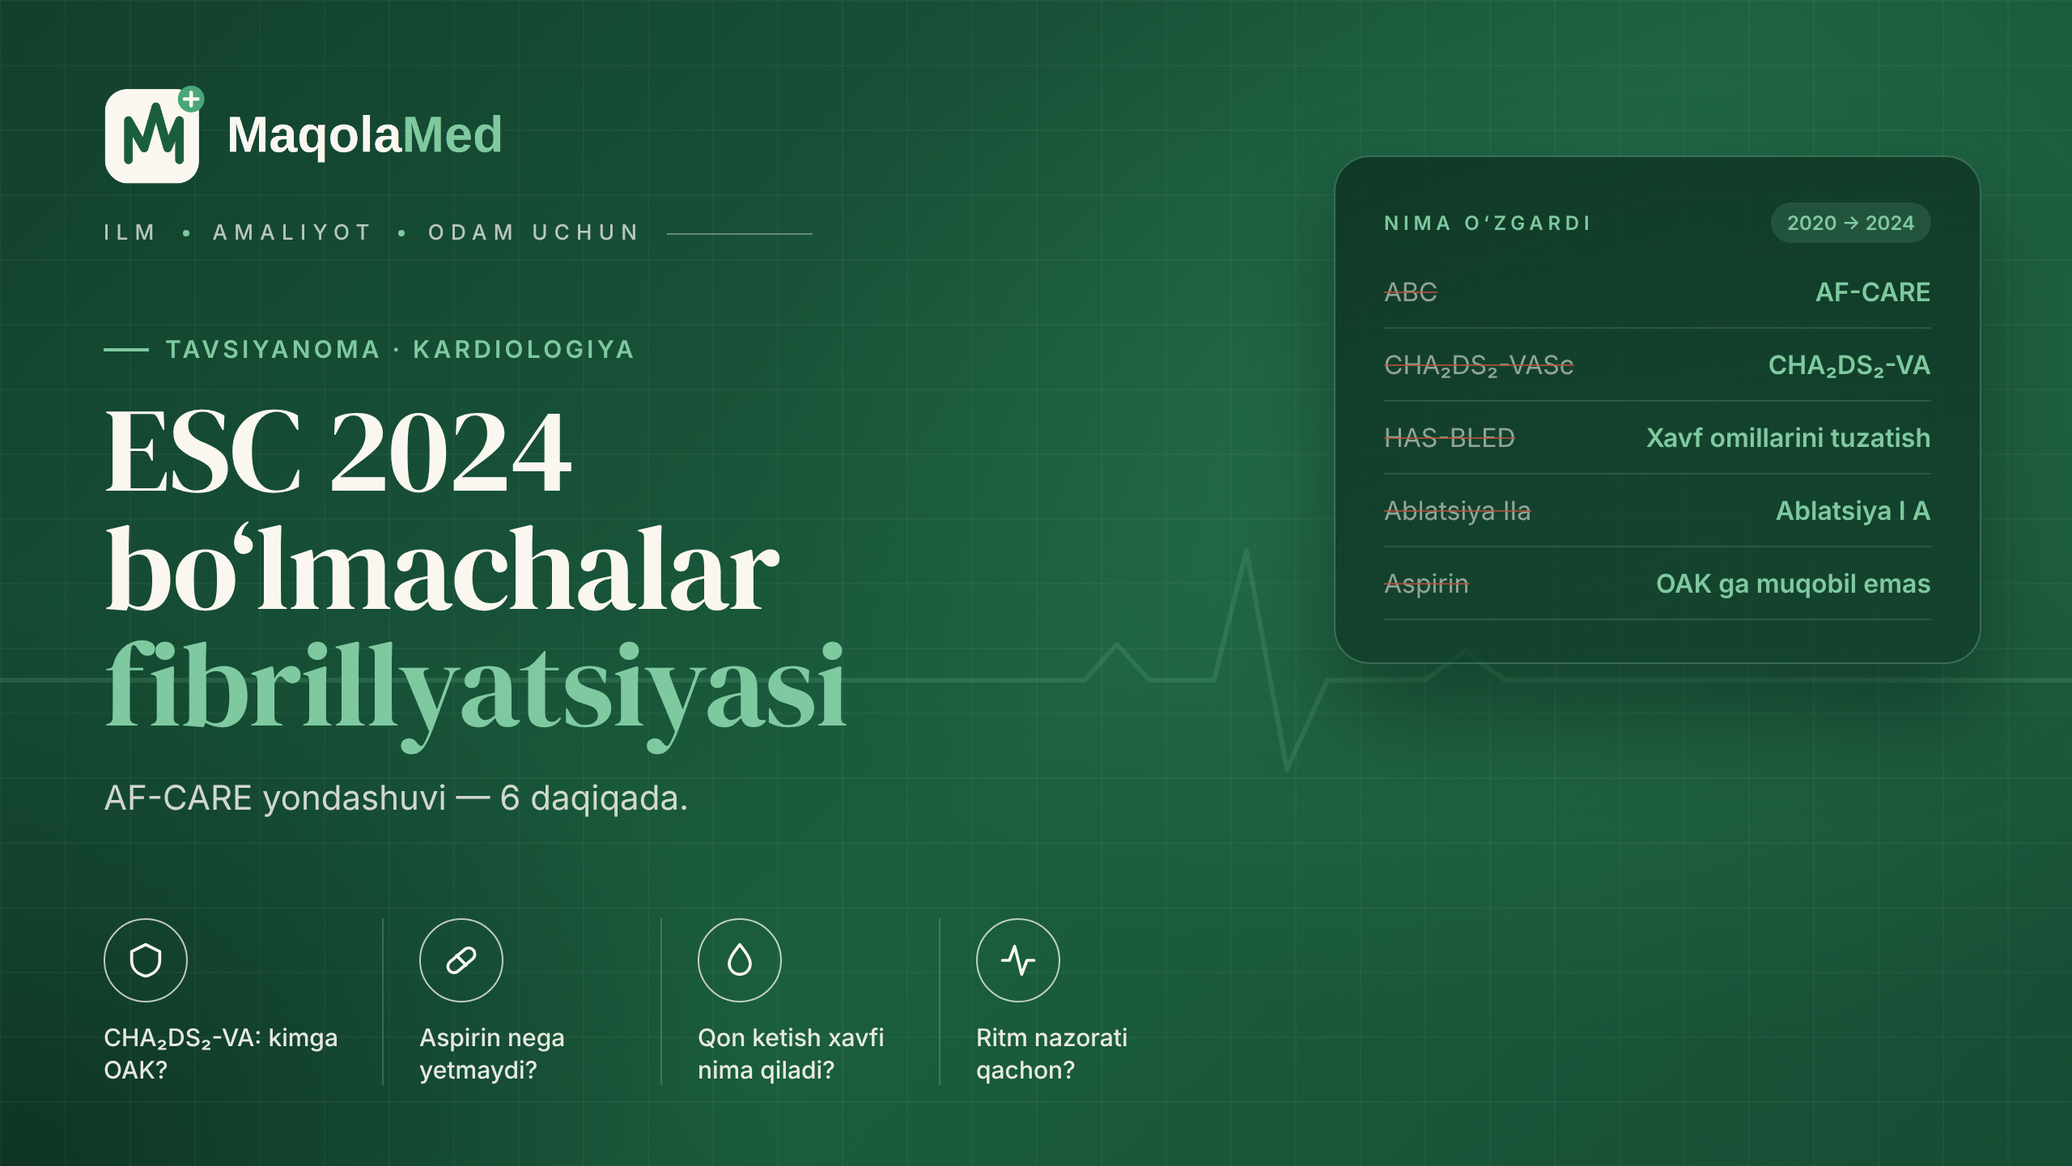
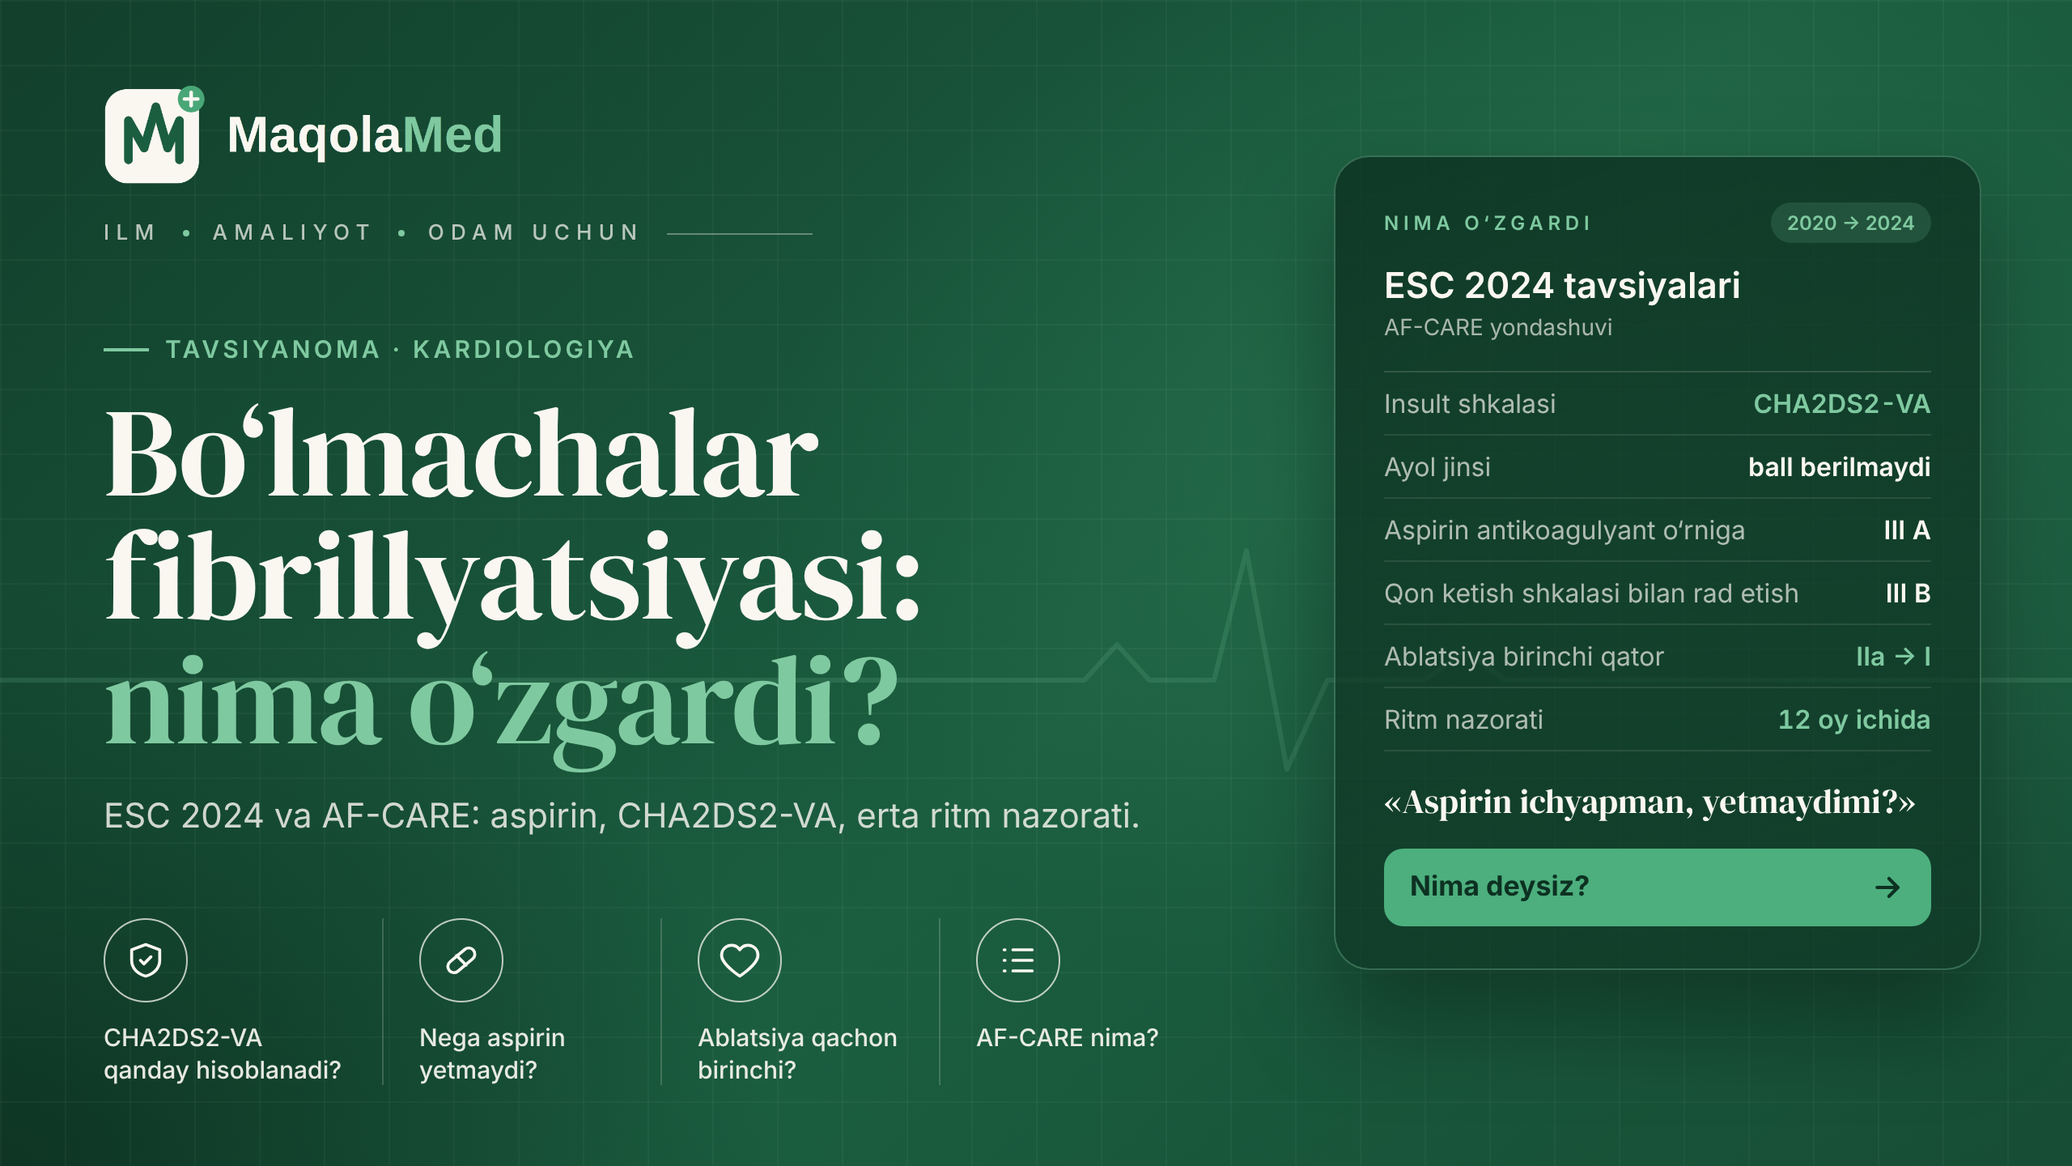
2-dekabr maqolasi qayta yozildi (v2, humanizer): ESC 2024 BF — muqovalar, 1 rasm

diff --git a/_manba/2026-12-02/muqova-instagram-4x5.html b/_manba/2026-12-02/muqova-instagram-4x5.html
@@ -1,0 +1,85 @@
+<!doctype html>
+<html lang="uz">
+<head>
+<meta charset="utf-8"><base href="file:///home/claude/maqolamed-rasmlar/_shablon/">
+<style>
+@font-face{font-family:"DM Serif Display";src:url("fonts/dm-serif-display-latin-400-normal.woff2") format("woff2");}
+@font-face{font-family:"DM Serif Display";src:url("fonts/dm-serif-display-latin-ext-400-normal.woff2") format("woff2");unicode-range:U+0100-024F,U+1E00-1EFF;}
+:root{
+  --emerald:#1B5E3F; --deep:#0D3122; --cream:#FAF7F0; --mint:#7FC9A0; --green:#4CAF7D;
+}
+*{margin:0;padding:0;box-sizing:border-box}
+html,body{width:1280px;height:720px;overflow:hidden;background:var(--deep)}
+.cover{position:relative;width:1280px;height:720px;overflow:hidden;font-family:"Inter",sans-serif;color:var(--cream);
+  background:
+    radial-gradient(900px 600px at 78% 40%, rgba(76,175,125,.22), transparent 60%),
+    radial-gradient(700px 500px at 0% 100%, rgba(13,49,34,.9), transparent 70%),
+    linear-gradient(135deg,#123F2C 0%, #1B5E3F 55%, #164D34 100%);}
+.grid{position:absolute;inset:0;background-image:
+    linear-gradient(rgba(250,247,240,.035) 1px,transparent 1px),
+    linear-gradient(90deg,rgba(250,247,240,.035) 1px,transparent 1px);
+  background-size:40px 40px;}
+.ekg{position:absolute;left:0;top:300px;width:1280px;height:200px;opacity:.16}
+.left{position:absolute;left:64px;top:52px;width:690px}
+.brand{display:flex;align-items:center;gap:28px}
+.brand img{height:62px;display:block}
+.tag{display:flex;align-items:center;gap:14px;font-size:13px;letter-spacing:.32em;color:rgba(250,247,240,.72);font-weight:500}
+.tag i{width:4px;height:4px;border-radius:50%;background:var(--mint);display:inline-block}
+.tag .line{width:90px;height:1px;background:rgba(250,247,240,.35)}
+.kicker{margin-top:54px;display:inline-flex;align-items:center;gap:10px;font-size:15px;font-weight:600;letter-spacing:.14em;text-transform:uppercase;color:var(--mint)}
+.kicker span{display:inline-block;width:28px;height:2px;background:var(--mint)}
+h1{margin-top:16px;font-family:"DM Serif Display",serif;font-weight:400;font-size:78px;line-height:.98;letter-spacing:-.01em;color:var(--cream)}
+h1 em{font-style:normal;color:var(--mint)}
+.sub{margin-top:22px;font-size:21px;color:rgba(250,247,240,.82);font-weight:400}
+.points{position:absolute;left:64px;bottom:50px;display:flex;gap:0}
+.pt{width:172px;padding-right:18px;display:flex;flex-direction:column;align-items:flex-start;gap:12px}
+.pt + .pt{padding-left:22px;border-left:1px solid rgba(250,247,240,.18)}
+.ic{width:52px;height:52px;border-radius:50%;border:1.6px solid rgba(250,247,240,.75);display:grid;place-items:center}
+.ic svg{width:26px;height:26px;stroke:var(--cream);fill:none;stroke-width:1.7;stroke-linecap:round;stroke-linejoin:round}
+.pt p{font-size:15px;line-height:1.3;color:rgba(250,247,240,.92);font-weight:500}
+.card{position:absolute;right:56px;top:96px;width:400px;border-radius:22px;padding:28px 30px 26px;
+  background:linear-gradient(160deg,rgba(13,49,34,.82),rgba(13,49,34,.62));
+  border:1px solid rgba(127,201,160,.35);box-shadow:0 30px 60px rgba(0,0,0,.35)}
+.card .ch{display:flex;justify-content:space-between;align-items:center}
+.card .lbl{font-size:12px;letter-spacing:.24em;font-weight:600;color:var(--mint)}
+.card .pill{font-size:12px;font-weight:600;padding:5px 10px;border-radius:999px;background:rgba(127,201,160,.16);color:var(--mint)}
+.card h3{margin-top:14px;font-size:22px;font-weight:600}
+.card h3 small{display:block;margin-top:4px;font-size:14px;font-weight:400;color:rgba(250,247,240,.65)}
+.rows{margin-top:18px;border-top:1px solid rgba(250,247,240,.14)}
+.row{display:flex;justify-content:space-between;padding:9px 0;border-bottom:1px solid rgba(250,247,240,.10);font-size:16px}
+.row span:first-child{color:rgba(250,247,240,.68)}
+.row span:last-child{font-weight:600;font-variant-numeric:tabular-nums}
+.row .ok{color:var(--mint)}
+.quote{margin-top:18px;font-family:"DM Serif Display",serif;font-size:21px;line-height:1.25;color:var(--cream)}
+.ask{margin-top:16px;display:flex;align-items:center;justify-content:space-between;padding:13px 16px;border-radius:12px;background:var(--green);color:#0D3122;font-weight:700;font-size:17px}
+.ask svg{width:22px;height:22px;stroke:#0D3122;fill:none;stroke-width:2.2;stroke-linecap:round;stroke-linejoin:round}
+
+html,body{width:1080px;height:1350px}
+.cover{width:1080px;height:1350px}
+.ekg{top:525px;width:1080px}
+.left{left:72px;top:64px;width:940px}
+.brand img{height:72px}
+h1{font-size:96px;margin-top:18px}
+.kicker{margin-top:56px;font-size:17px}
+.sub{font-size:24px}
+.card{left:72px;right:72px;top:auto;bottom:250px;width:auto;padding:30px 34px}
+.rows{display:grid;grid-template-columns:1fr 1fr;column-gap:40px}
+.quote{font-size:24px}
+.points{left:72px;right:72px;bottom:60px}
+.pt{width:auto;flex:1}
+.pt p{font-size:17px}
+
+
+</style>
+</head>
+<body><div class="cover"><div class="grid"></div>
+<svg class="ekg" viewBox="0 0 1280 200" preserveAspectRatio="none"><polyline fill="none" stroke="#7FC9A0" stroke-width="3" stroke-linejoin="round" stroke-linecap="round" points="0,120 640,120 670,120 690,98 710,120 750,120 770,40 795,175 820,120 880,120 905,102 930,120 1280,120"/></svg>
+<div class="left"><div class="brand"><img src="logo_dark_bg.png" alt="MaqolaMed"></div>
+<div class="tag" style="margin-top:22px"><span>ILM</span><i></i><span>AMALIYOT</span><i></i><span>ODAM UCHUN</span><span class="line"></span></div>
+<div class="kicker"><span></span>Tavsiyanoma · Kardiologiya</div>
+<h1>Bo‘lmachalar<br>fibrillyatsiyasi:<br><em>nima o‘zgardi?</em></h1>
+<div class="sub">ESC 2024 va AF-CARE: aspirin, CHA2DS2-VA, erta ritm nazorati.</div></div>
+<div class="points"><div class="pt"><div class="ic"><svg viewBox="0 0 24 24"><path d="M12 3l8 3v6c0 4.5-3.5 8-8 9-4.5-1-8-4.5-8-9V6z"/><path d="M9 12l2 2 4-4"/></svg></div><p>CHA2DS2-VA qanday hisoblanadi?</p></div><div class="pt"><div class="ic"><svg viewBox="0 0 24 24"><rect x="3" y="8.5" width="18" height="7" rx="3.5" transform="rotate(-40 12 12)"/><path d="M9.3 9.3l5.4 5.4"/></svg></div><p>Nega aspirin yetmaydi?</p></div><div class="pt"><div class="ic"><svg viewBox="0 0 24 24"><path d="M12 21s-7-4.5-9.5-9A5.5 5.5 0 0 1 12 6a5.5 5.5 0 0 1 9.5 6c-2.5 4.5-9.5 9-9.5 9z"/></svg></div><p>Ablatsiya qachon birinchi?</p></div><div class="pt"><div class="ic"><svg viewBox="0 0 24 24"><path d="M9 6h11M9 12h11M9 18h11"/><path d="M4 6h.5M4 12h.5M4 18h.5"/></svg></div><p>AF-CARE nima?</p></div></div>
+<div class="card"><div class="ch"><span class="lbl">NIMA O‘ZGARDI</span><span class="pill">2020 → 2024</span></div>
+<h3>ESC 2024 tavsiyalari<small>AF-CARE yondashuvi</small></h3><div class="rows"><div class="row"><span>Insult shkalasi</span><span class="ok">CHA2DS2-VA</span></div><div class="row"><span>Ayol jinsi</span><span class="">ball berilmaydi</span></div><div class="row"><span>Aspirin antikoagulyant o‘rniga</span><span class="">III A</span></div><div class="row"><span>Qon ketish shkalasi bilan rad etish</span><span class="">III B</span></div><div class="row"><span>Ablatsiya birinchi qator</span><span class="ok">IIa → I</span></div><div class="row"><span>Ritm nazorati</span><span class="ok">12 oy ichida</span></div></div><div class="quote">«Aspirin ichyapman, yetmaydimi?»</div><div class="ask">Nima deysiz?<svg viewBox="0 0 24 24"><path d="M5 12h14"/><path d="M13 6l6 6-6 6"/></svg></div></div>
+</div></body></html>

diff --git a/_manba/2026-12-02/muqova-16x9.html b/_manba/2026-12-02/muqova-16x9.html
@@ -1,0 +1,70 @@
+<!doctype html>
+<html lang="uz">
+<head>
+<meta charset="utf-8"><base href="file:///home/claude/maqolamed-rasmlar/_shablon/">
+<style>
+@font-face{font-family:"DM Serif Display";src:url("fonts/dm-serif-display-latin-400-normal.woff2") format("woff2");}
+@font-face{font-family:"DM Serif Display";src:url("fonts/dm-serif-display-latin-ext-400-normal.woff2") format("woff2");unicode-range:U+0100-024F,U+1E00-1EFF;}
+:root{
+  --emerald:#1B5E3F; --deep:#0D3122; --cream:#FAF7F0; --mint:#7FC9A0; --green:#4CAF7D;
+}
+*{margin:0;padding:0;box-sizing:border-box}
+html,body{width:1280px;height:720px;overflow:hidden;background:var(--deep)}
+.cover{position:relative;width:1280px;height:720px;overflow:hidden;font-family:"Inter",sans-serif;color:var(--cream);
+  background:
+    radial-gradient(900px 600px at 78% 40%, rgba(76,175,125,.22), transparent 60%),
+    radial-gradient(700px 500px at 0% 100%, rgba(13,49,34,.9), transparent 70%),
+    linear-gradient(135deg,#123F2C 0%, #1B5E3F 55%, #164D34 100%);}
+.grid{position:absolute;inset:0;background-image:
+    linear-gradient(rgba(250,247,240,.035) 1px,transparent 1px),
+    linear-gradient(90deg,rgba(250,247,240,.035) 1px,transparent 1px);
+  background-size:40px 40px;}
+.ekg{position:absolute;left:0;top:300px;width:1280px;height:200px;opacity:.16}
+.left{position:absolute;left:64px;top:52px;width:690px}
+.brand{display:flex;align-items:center;gap:28px}
+.brand img{height:62px;display:block}
+.tag{display:flex;align-items:center;gap:14px;font-size:13px;letter-spacing:.32em;color:rgba(250,247,240,.72);font-weight:500}
+.tag i{width:4px;height:4px;border-radius:50%;background:var(--mint);display:inline-block}
+.tag .line{width:90px;height:1px;background:rgba(250,247,240,.35)}
+.kicker{margin-top:54px;display:inline-flex;align-items:center;gap:10px;font-size:15px;font-weight:600;letter-spacing:.14em;text-transform:uppercase;color:var(--mint)}
+.kicker span{display:inline-block;width:28px;height:2px;background:var(--mint)}
+h1{margin-top:16px;font-family:"DM Serif Display",serif;font-weight:400;font-size:78px;line-height:.98;letter-spacing:-.01em;color:var(--cream)}
+h1 em{font-style:normal;color:var(--mint)}
+.sub{margin-top:22px;font-size:21px;color:rgba(250,247,240,.82);font-weight:400}
+.points{position:absolute;left:64px;bottom:50px;display:flex;gap:0}
+.pt{width:172px;padding-right:18px;display:flex;flex-direction:column;align-items:flex-start;gap:12px}
+.pt + .pt{padding-left:22px;border-left:1px solid rgba(250,247,240,.18)}
+.ic{width:52px;height:52px;border-radius:50%;border:1.6px solid rgba(250,247,240,.75);display:grid;place-items:center}
+.ic svg{width:26px;height:26px;stroke:var(--cream);fill:none;stroke-width:1.7;stroke-linecap:round;stroke-linejoin:round}
+.pt p{font-size:15px;line-height:1.3;color:rgba(250,247,240,.92);font-weight:500}
+.card{position:absolute;right:56px;top:96px;width:400px;border-radius:22px;padding:28px 30px 26px;
+  background:linear-gradient(160deg,rgba(13,49,34,.82),rgba(13,49,34,.62));
+  border:1px solid rgba(127,201,160,.35);box-shadow:0 30px 60px rgba(0,0,0,.35)}
+.card .ch{display:flex;justify-content:space-between;align-items:center}
+.card .lbl{font-size:12px;letter-spacing:.24em;font-weight:600;color:var(--mint)}
+.card .pill{font-size:12px;font-weight:600;padding:5px 10px;border-radius:999px;background:rgba(127,201,160,.16);color:var(--mint)}
+.card h3{margin-top:14px;font-size:22px;font-weight:600}
+.card h3 small{display:block;margin-top:4px;font-size:14px;font-weight:400;color:rgba(250,247,240,.65)}
+.rows{margin-top:18px;border-top:1px solid rgba(250,247,240,.14)}
+.row{display:flex;justify-content:space-between;padding:9px 0;border-bottom:1px solid rgba(250,247,240,.10);font-size:16px}
+.row span:first-child{color:rgba(250,247,240,.68)}
+.row span:last-child{font-weight:600;font-variant-numeric:tabular-nums}
+.row .ok{color:var(--mint)}
+.quote{margin-top:18px;font-family:"DM Serif Display",serif;font-size:21px;line-height:1.25;color:var(--cream)}
+.ask{margin-top:16px;display:flex;align-items:center;justify-content:space-between;padding:13px 16px;border-radius:12px;background:var(--green);color:#0D3122;font-weight:700;font-size:17px}
+.ask svg{width:22px;height:22px;stroke:#0D3122;fill:none;stroke-width:2.2;stroke-linecap:round;stroke-linejoin:round}
+
+
+</style>
+</head>
+<body><div class="cover"><div class="grid"></div>
+<svg class="ekg" viewBox="0 0 1280 200" preserveAspectRatio="none"><polyline fill="none" stroke="#7FC9A0" stroke-width="3" stroke-linejoin="round" stroke-linecap="round" points="0,120 640,120 670,120 690,98 710,120 750,120 770,40 795,175 820,120 880,120 905,102 930,120 1280,120"/></svg>
+<div class="left"><div class="brand"><img src="logo_dark_bg.png" alt="MaqolaMed"></div>
+<div class="tag" style="margin-top:22px"><span>ILM</span><i></i><span>AMALIYOT</span><i></i><span>ODAM UCHUN</span><span class="line"></span></div>
+<div class="kicker"><span></span>Tavsiyanoma · Kardiologiya</div>
+<h1>Bo‘lmachalar<br>fibrillyatsiyasi:<br><em>nima o‘zgardi?</em></h1>
+<div class="sub">ESC 2024 va AF-CARE: aspirin, CHA2DS2-VA, erta ritm nazorati.</div></div>
+<div class="points"><div class="pt"><div class="ic"><svg viewBox="0 0 24 24"><path d="M12 3l8 3v6c0 4.5-3.5 8-8 9-4.5-1-8-4.5-8-9V6z"/><path d="M9 12l2 2 4-4"/></svg></div><p>CHA2DS2-VA qanday hisoblanadi?</p></div><div class="pt"><div class="ic"><svg viewBox="0 0 24 24"><rect x="3" y="8.5" width="18" height="7" rx="3.5" transform="rotate(-40 12 12)"/><path d="M9.3 9.3l5.4 5.4"/></svg></div><p>Nega aspirin yetmaydi?</p></div><div class="pt"><div class="ic"><svg viewBox="0 0 24 24"><path d="M12 21s-7-4.5-9.5-9A5.5 5.5 0 0 1 12 6a5.5 5.5 0 0 1 9.5 6c-2.5 4.5-9.5 9-9.5 9z"/></svg></div><p>Ablatsiya qachon birinchi?</p></div><div class="pt"><div class="ic"><svg viewBox="0 0 24 24"><path d="M9 6h11M9 12h11M9 18h11"/><path d="M4 6h.5M4 12h.5M4 18h.5"/></svg></div><p>AF-CARE nima?</p></div></div>
+<div class="card"><div class="ch"><span class="lbl">NIMA O‘ZGARDI</span><span class="pill">2020 → 2024</span></div>
+<h3>ESC 2024 tavsiyalari<small>AF-CARE yondashuvi</small></h3><div class="rows"><div class="row"><span>Insult shkalasi</span><span class="ok">CHA2DS2-VA</span></div><div class="row"><span>Ayol jinsi</span><span class="">ball berilmaydi</span></div><div class="row"><span>Aspirin antikoagulyant o‘rniga</span><span class="">III A</span></div><div class="row"><span>Qon ketish shkalasi bilan rad etish</span><span class="">III B</span></div><div class="row"><span>Ablatsiya birinchi qator</span><span class="ok">IIa → I</span></div><div class="row"><span>Ritm nazorati</span><span class="ok">12 oy ichida</span></div></div><div class="quote">«Aspirin ichyapman, yetmaydimi?»</div><div class="ask">Nima deysiz?<svg viewBox="0 0 24 24"><path d="M5 12h14"/><path d="M13 6l6 6-6 6"/></svg></div></div>
+</div></body></html>

diff --git a/_manba/2026-12-02/1-rasm.html b/_manba/2026-12-02/1-rasm.html
@@ -1,0 +1,49 @@
+<!doctype html><html lang="uz"><head><meta charset="utf-8"><base href="file:///home/claude/maqolamed-rasmlar/_shablon/"><style>
+@font-face{font-family:"DM Serif Display";src:url("fonts/dm-serif-display-latin-400-normal.woff2") format("woff2");}
+@font-face{font-family:"DM Serif Display";src:url("fonts/dm-serif-display-latin-ext-400-normal.woff2") format("woff2");unicode-range:U+0100-024F,U+1E00-1EFF;}
+:root{--emerald:#1B5E3F;--deep:#0D3122;--cream:#FAF7F0;--mint:#7FC9A0;--green:#4CAF7D;--ink:#17322A;--muted:#5C6F66;--amber:#C98A2E;--amberbg:#FBF1E1;--red:#B5513F;--redbg:#F8E7E2}
+*{margin:0;padding:0;box-sizing:border-box}
+html,body{width:1280px;height:780px;background:var(--cream);overflow:hidden}
+.fig{position:relative;width:1280px;height:780px;padding:44px 56px;font-family:"Inter",sans-serif;color:var(--ink)}
+.top{display:flex;justify-content:space-between;align-items:flex-start;margin-bottom:26px}
+h1{font-family:"DM Serif Display",serif;font-weight:400;font-size:40px;line-height:1.08;color:var(--deep)}
+h1 em{font-style:normal;color:var(--green)}
+.brand{display:flex;align-items:center;gap:10px;font-weight:700;font-size:20px;color:var(--emerald);white-space:nowrap}
+.brand img{height:34px}.brand b{color:var(--green);font-weight:700}
+table{width:100%;border-collapse:separate;border-spacing:0;font-size:17px;line-height:1.35;background:#fff;border-radius:14px;overflow:hidden;border:1.5px solid #BFDCCB}
+th{background:var(--emerald);color:var(--cream);text-align:left;padding:13px 16px;font-size:16px;font-weight:600}
+td{padding:12px 16px;border-top:1px solid #E3EDE7;vertical-align:top}
+td:first-child{font-weight:600;color:var(--deep);width:24%}
+tr:nth-child(even) td{background:#F6FAF7}
+.good{color:var(--emerald);font-weight:600}.bad{color:var(--red);font-weight:600}.mid{color:#8A5A14;font-weight:600}
+.row3{display:flex;gap:20px}
+.box{flex:1;border-radius:14px;padding:16px 18px;font-size:16px;line-height:1.42;background:#fff;border:1.5px solid #BFDCCB}
+.box b.t{display:block;font-size:18px;margin-bottom:6px;color:var(--deep)}
+.box.g{border-color:#BFDCCB}.box.a{border-color:#EBD3A9;background:#FFFDF8}.box.r{border-color:#E8C3BA;background:#FFFBFA}
+.box.dark{background:var(--emerald);color:var(--cream);border:none}.box.dark b.t{color:var(--cream)}
+.step{display:flex;gap:16px;align-items:flex-start;background:#fff;border:1.5px solid #BFDCCB;border-radius:14px;padding:14px 18px;margin-bottom:12px;font-size:16.5px;line-height:1.42}
+.num{flex:none;width:40px;height:40px;border-radius:50%;background:var(--emerald);color:var(--cream);display:grid;place-items:center;font-weight:700;font-size:19px}
+.step b.t{display:block;font-size:18px;color:var(--deep);margin-bottom:3px}
+.tag{display:inline-block;font-size:12.5px;font-weight:700;letter-spacing:.1em;text-transform:uppercase;padding:5px 11px;border-radius:999px;margin-bottom:10px}
+.tg{background:#DDEFE5;color:var(--emerald)}.ta{background:var(--amberbg);color:#8A5A14}.tr{background:var(--redbg);color:var(--red)}
+.note{margin-top:18px;padding:14px 18px;border-radius:12px;background:#EEF2EE;font-size:15.5px;line-height:1.42}
+.note b{color:var(--deep)}
+.src{position:absolute;right:56px;bottom:14px;font-size:12.5px;color:var(--muted)}
+ul.l{margin:6px 0 0 18px}ul.l li{margin:3px 0}
+</style>
+<style>td:first-child{width:27%}td.c{font-weight:600;color:var(--emerald);white-space:nowrap;width:9%}</style>
+</head><body><div class="fig">
+<div class="top"><h1>Bo‘lmachalar fibrillyatsiyasi:<br><em>ESC 2020 va 2024: nima o‘zgardi</em></h1><div class="brand"><img src="icon.png" alt=""><span>Maqola<b>Med</b></span></div></div>
+<table>
+<tr><th>Mavzu</th><th>ESC 2020 [2]</th><th>ESC 2024 [1]</th><th>Sinf</th></tr>
+<tr><td>Yondashuv</td><td>ABC yo‘li</td><td>AF-CARE: C → A → R → E</td><td class="c"></td></tr>
+<tr><td>Insult xavfi shkalasi</td><td>CHA2DS2-VASc (ayolga +1 ball)</td><td>CHA2DS2-VA: ≥2 ball: yuqori xavf; 1 ball: ko‘rib chiqiladi</td><td class="c">I C / IIa C</td></tr>
+<tr><td>Antikoagulyant tanlovi</td><td>DOAK afzal</td><td>DOAK afzal (mexanik klapan va mitral stenozdan tashqari)</td><td class="c">I A</td></tr>
+<tr><td>Aspirin antikoagulyant o‘rniga</td><td>Tavsiya qilinmaydi</td><td class="bad">Tavsiya qilinmaydi</td><td class="c">III A</td></tr>
+<tr><td>Qon ketish shkalalari</td><td>HAS-BLED (IIa B)</td><td>Antikoagulyant haqida qaror uchun emas; omillarni tuzatish</td><td class="c">III B / I B</td></tr>
+<tr><td>Ablatsiya, paroksizmal BF</td><td>Birinchi qator: IIa B</td><td class="good">Birinchi qator usullardan biri</td><td class="c">I A</td></tr>
+<tr><td>Erta ritm nazorati</td><td>Alohida tavsiya yo‘q</td><td>Tashxisdan keyin 12 oy ichida</td><td class="c">IIa B</td></tr>
+<tr><td>Vazn va alkogol</td><td>IIa B</td><td>Vazn ≥10% kamaytirish; alkogol ≤3 porsiya/hafta</td><td class="c">I B</td></tr>
+<tr><td>Chastota maqsadi</td><td>Tinch holatda &lt;110/daq</td><td>Tinch holatda &lt;110/daq (dastlabki maqsad)</td><td class="c">IIa B</td></tr>
+</table>
+<div class="src">Raqamlar maqoladagi manbalar ro‘yxatiga ishora qiladi.</div></div></body></html>
